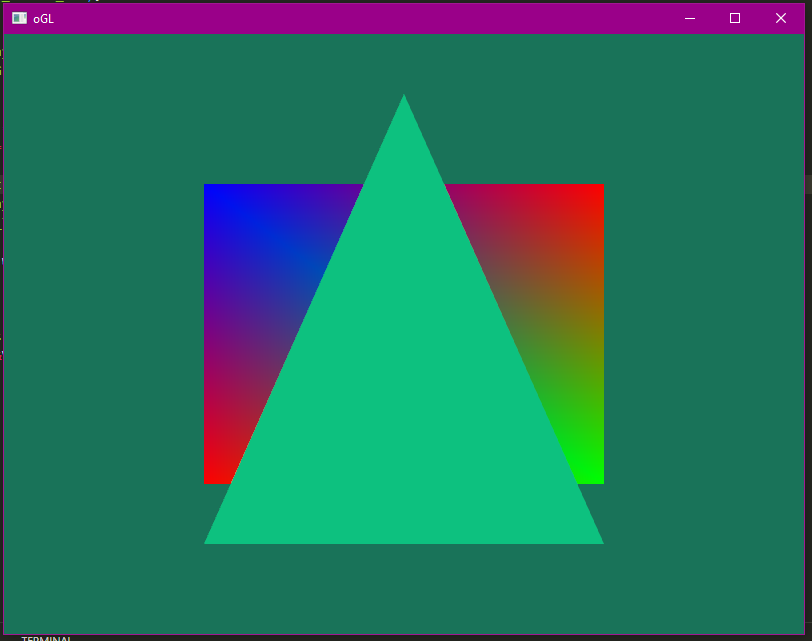
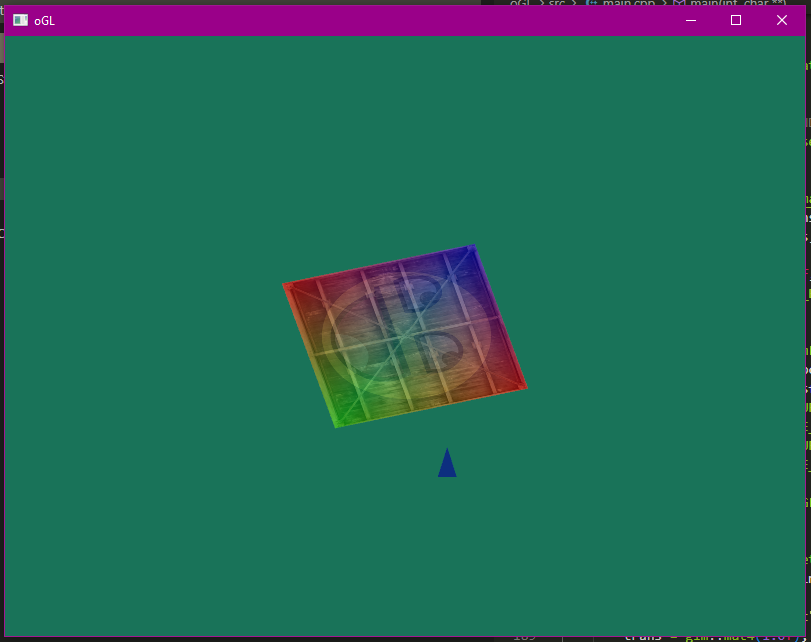
Styling and transforms

diff --git a/src/main.cpp b/src/main.cpp
@@ -2,25 +2,27 @@
 #include <GLFW\glfw3.h>
 #define STB_IMAGE_IMPLEMENTATION
 #include "stb_image.h"
+#include <glm/glm.hpp>
+#include <glm/gtc/matrix_transform.hpp>
+#include <glm/gtc/type_ptr.hpp>
 
 #include "shader.h"
 
 #include <iostream>
 #include <cmath>
 
-
 float vertices[] = {
     // posistions,          colours,            coords
     -0.5f, -0.5f, 0.0f,     1.0f, 0.0f, 0.0f,   0.0f, 0.0f, // bottom left
     0.5f, -0.5f, 0.0f,      0.0f, 1.0f, 0.0f,   1.0f, 0.0f, // bottom right
     -0.5f, 0.5f, 0.0f,      0.0f, 0.0f, 1.0f,   0.0f, 1.0f, // top left
-    0.5f, 0.5f, 0.0f,       1.0f, 0.0f, 0.0f,   1.0f, 1.0f // top right
+    0.5f, 0.5f, 0.0f,       1.0f, 0.0f, 0.0f,   1.0f, 1.0f  // top right
 };
 
 float vertices_second[] = {
     -0.8f, -0.6f, 0.0f, 1.0f, 0.0f, 0.0f, 0.0f, 1.0f, // top middle
     -0.7f, -0.8f, 0.0f, 0.0f, 1.0f, 0.0f, 1.0f, 0.0f, // bottom right
-    -0.9f, -0.8f, 0.0f, 0.0f, 0.0f, 1.0f, 0.0f, 0.5f // bottom left
+    -0.9f, -0.8f, 0.0f, 0.0f, 0.0f, 1.0f, 0.0f, 0.5f  // bottom left
 };
 
 unsigned int indices[] = {
@@ -28,19 +30,19 @@ unsigned int indices[] = {
     2, 3, 1
 };
 
-void framebuffer_size_callback(GLFWwindow* window, int width, int height){
+void framebuffer_size_callback(GLFWwindow *window, int width, int height){
     glViewport(0, 0, width, height);
 }
 
-void processInput(GLFWwindow* window){
-    if(glfwGetKey(window, GLFW_KEY_ESCAPE) == GLFW_PRESS){
+void processInput(GLFWwindow *window){
+    if (glfwGetKey(window, GLFW_KEY_ESCAPE) == GLFW_PRESS){
         glfwSetWindowShouldClose(window, true);
     }
 }
 
-int main(int argc, char** argv){
+int main(int argc, char **argv){
 
-    GLFWwindow* window;
+    GLFWwindow *window;
 
     if (!glfwInit()){
         return -1;
@@ -48,7 +50,6 @@ int main(int argc, char** argv){
     glfwWindowHint(GLFW_CONTEXT_VERSION_MAJOR, 3);
     glfwWindowHint(GLFW_CONTEXT_VERSION_MINOR, 3);
     glfwWindowHint(GLFW_OPENGL_PROFILE, GLFW_OPENGL_CORE_PROFILE);
-
 
     window = glfwCreateWindow(800, 600, "oGL", NULL, NULL);
     if (window == NULL){
@@ -58,7 +59,7 @@ int main(int argc, char** argv){
     }
     glfwMakeContextCurrent(window);
     glfwSetFramebufferSizeCallback(window, framebuffer_size_callback);
-    
+
     if (!gladLoadGLLoader((GLADloadproc)glfwGetProcAddress)){
         std::cerr << "Failed to init GLAD.\n";
         return -1;
@@ -66,16 +67,16 @@ int main(int argc, char** argv){
 
     int nrAttributes;
     glGetIntegerv(GL_MAX_VERTEX_ATTRIBS, &nrAttributes);
-    std::cout << "Max # of vertex attribs: "<< nrAttributes << "\n";    
+    std::cout << "Max # of vertex attribs: " << nrAttributes << "\n";
 
     shader shader1("./vertex.vs", "./fragment_1.fs");
     shader shader2("./vertex.vs", "./fragment_2.fs");
 
- // buffers and vertex attributes
+    // buffers and vertex attributes
     unsigned int VAO;
     glGenVertexArrays(1, &VAO);
     glBindVertexArray(VAO);
-    
+
     unsigned int VBO;
     glGenBuffers(1, &VBO);
     glBindBuffer(GL_ARRAY_BUFFER, VBO);
@@ -85,18 +86,16 @@ int main(int argc, char** argv){
     glGenBuffers(1, &EBO);
     glBindBuffer(GL_ELEMENT_ARRAY_BUFFER, EBO);
     glBufferData(GL_ELEMENT_ARRAY_BUFFER, sizeof(indices), indices, GL_STATIC_DRAW);
-    
-    glVertexAttribPointer(0, 3, GL_FLOAT, GL_FALSE, 8 * sizeof(float), (void*)0);
-    glVertexAttribPointer(1, 3, GL_FLOAT, GL_FALSE, 8 * sizeof(float), (void*)(3*sizeof(float)));
-    glVertexAttribPointer(2, 2, GL_FLOAT, GL_FALSE, 8 * sizeof(float), (void*)(6*sizeof(float)));
+
+    glVertexAttribPointer(0, 3, GL_FLOAT, GL_FALSE, 8 * sizeof(float), (void *)0);
+    glVertexAttribPointer(1, 3, GL_FLOAT, GL_FALSE, 8 * sizeof(float), (void *)(3 * sizeof(float)));
+    glVertexAttribPointer(2, 2, GL_FLOAT, GL_FALSE, 8 * sizeof(float), (void *)(6 * sizeof(float)));
     glEnableVertexAttribArray(0);
     glEnableVertexAttribArray(1);
     glEnableVertexAttribArray(2);
 
-
     glBindBuffer(GL_ARRAY_BUFFER, 0);
     glBindVertexArray(0);
-
 
     // second set of VAO, VBO
     unsigned int VAO2;
@@ -106,9 +105,9 @@ int main(int argc, char** argv){
     glGenBuffers(1, &VBO2);
     glBindBuffer(GL_ARRAY_BUFFER, VBO2);
     glBufferData(GL_ARRAY_BUFFER, sizeof(vertices_second), vertices_second, GL_STATIC_DRAW);
-    glVertexAttribPointer(0, 3, GL_FLOAT, GL_FALSE, 8 * sizeof(float), (void*)0);
-    glVertexAttribPointer(1, 3, GL_FLOAT, GL_FALSE, 8 * sizeof(float), (void*)(3*sizeof(float)));
-    glVertexAttribPointer(2, 2, GL_FLOAT, GL_FALSE, 8 * sizeof(float), (void*)(6*sizeof(float)));
+    glVertexAttribPointer(0, 3, GL_FLOAT, GL_FALSE, 8 * sizeof(float), (void *)0);
+    glVertexAttribPointer(1, 3, GL_FLOAT, GL_FALSE, 8 * sizeof(float), (void *)(3 * sizeof(float)));
+    glVertexAttribPointer(2, 2, GL_FLOAT, GL_FALSE, 8 * sizeof(float), (void *)(6 * sizeof(float)));
     glEnableVertexAttribArray(0);
     glEnableVertexAttribArray(1);
     glEnableVertexAttribArray(2);
@@ -128,7 +127,7 @@ int main(int argc, char** argv){
     // load and generate texture
     int width, height, nrChannels;
     stbi_set_flip_vertically_on_load(true);
-    unsigned char* data = stbi_load("../res/container.jpg", &width, &height, &nrChannels, 0);
+    unsigned char *data = stbi_load("../res/container.jpg", &width, &height, &nrChannels, 0);
     if (data){
         glTexImage2D(GL_TEXTURE_2D, 0, GL_RGB, width, height, 0, GL_RGB, GL_UNSIGNED_BYTE, data);
         glGenerateMipmap(GL_TEXTURE_2D);
@@ -145,7 +144,7 @@ int main(int argc, char** argv){
     glTexParameteri(GL_TEXTURE_2D, GL_TEXTURE_WRAP_T, GL_REPEAT);
     glTexParameteri(GL_TEXTURE_2D, GL_TEXTURE_MIN_FILTER, GL_LINEAR);
     glTexParameteri(GL_TEXTURE_2D, GL_TEXTURE_MAG_FILTER, GL_LINEAR);
-    
+
     int width2, height2, nrChannels2;
     data = stbi_load("../res/awesomeface.png", &width2, &height2, &nrChannels, 0);
     if (data) {
@@ -159,22 +158,27 @@ int main(int argc, char** argv){
     shader1.use();
     glUniform1i(glGetUniformLocation(shader1.ID, "tex1"), 0);
     shader1.setInt("tex2", 1);
-   
 
-    //glPolygonMode(GL_FRONT_AND_BACK, GL_LINE);
-    while(!glfwWindowShouldClose(window)){
+    // glPolygonMode(GL_FRONT_AND_BACK, GL_LINE);
+    while (!glfwWindowShouldClose(window)) {
         processInput(window);
-        
+
+        glm::mat4 trans = glm::mat4(1.0f);
+        trans = glm::rotate(trans, (float)glfwGetTime(), glm::vec3(0.0, 0.0, 1.0));
+        trans = glm::scale(trans, glm::vec3(0.5, 0.5, 0.5));
+
         glClearColor(0.1f, 0.45f, 0.35f, 1.0f);
         glClear(GL_COLOR_BUFFER_BIT);
 
         shader1.use();
         glUniform1i(glGetUniformLocation(shader1.ID, "tex1"), 0);
+        unsigned int transformLoc = glGetUniformLocation(shader1.ID, "transform");
+        glUniformMatrix4fv(transformLoc, 1, GL_FALSE, glm::value_ptr(trans));
         glActiveTexture(GL_TEXTURE0);
         glBindTexture(GL_TEXTURE_2D, texture1);
         glActiveTexture(GL_TEXTURE1);
         glBindTexture(GL_TEXTURE_2D, texture2);
-        glBindVertexArray(VAO);        
+        glBindVertexArray(VAO);
         glDrawElements(GL_TRIANGLES, 6, GL_UNSIGNED_INT, 0);
 
 
@@ -182,6 +186,14 @@ int main(int argc, char** argv){
         float sinValue = (sin(timeValue) / 3.0f) + 0.5f;
         shader2.use();
         shader2.setFloat("cyclic", sinValue);
+        trans = glm::mat4(1.0f);
+        trans = glm::scale(trans, glm::vec3(0.5, 0.5, 0.5));
+        trans = glm::rotate(trans, -timeValue*4, glm::vec3(0.0, 1.0, 0.0));
+        trans = glm::translate(trans, glm::vec3(0.7+cos(-timeValue/5), 0.7+sin(-timeValue/5), 0.0));
+        
+        
+        unsigned int transformLoc2 = glGetUniformLocation(shader2.ID, "transform");
+        glUniformMatrix4fv(transformLoc2, 1, GL_FALSE, glm::value_ptr(trans));
         glBindVertexArray(VAO2);
         glDrawArrays(GL_TRIANGLES, 0, 3);
 

diff --git a/README.MD b/README.MD
@@ -8,6 +8,7 @@ This is following the guidance of [learnopengl](https://learnopengl.com/).
 - [GLFW](https://www.glfw.org/documentation.html) as window creation and openGL interface
 - [GLAD](https://glad.dav1d.de/) as a managment system, simplifying openGL featuresets
 - [stb](https://github.com/nothings/stb/blob/master/stb_image.h) image format library
+- [glm](http://glm.g-truc.net/0.9.8/index.html) openGL focused mathematics library
 - [VS Code](https://code.visualstudio.com/) is being used as the IDE
 - [mingw32](https://www.msys2.org/) g++ and gdb provided via mingw from msys
 - [git](https://git-scm.com/) VCS using git within VS Code
